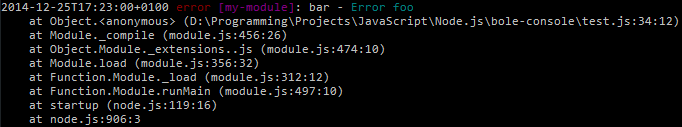
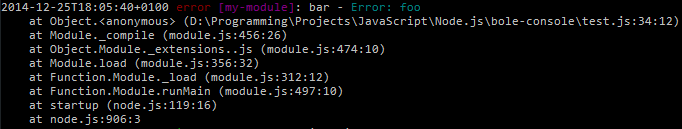
added semicolon between the error name and its message

diff --git a/lib/index.js b/lib/index.js
@@ -78,7 +78,7 @@ ConsoleStream.prototype._write = function (chunk, encoding, cb){
     var trace = obj.err.message || obj.err.name;
     trace = obj.err.stack.substring (obj.err.stack.indexOf (trace) +
         trace.length + 1);
-    str += " - " + this._colorize (colors.cyan, obj.err.name + " " +
+    str += " - " + this._colorize (colors.cyan, obj.err.name + ": " +
         obj.err.message);
     if (trace) str += "\n" + trace;
   }else if (obj.req){
